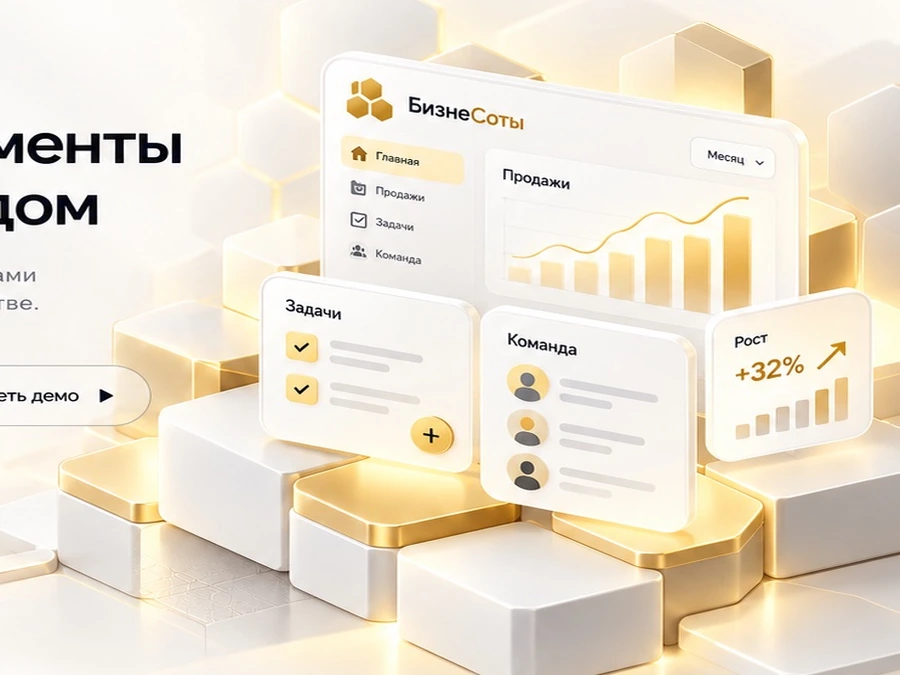
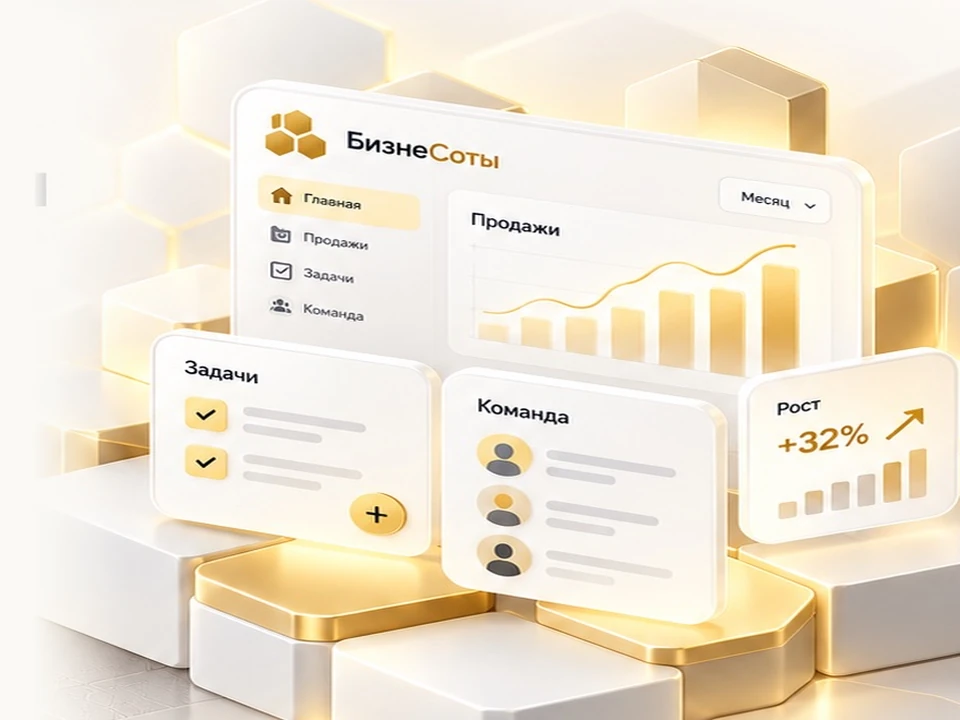
Scale landing hero and platform to match approved 1122×1402 reference
Recrop hero/platform WebP from the approved artwork without left-side
text bleed, enlarge desktop visual dominance, and lift the benefits strip
so section geometry aligns with the reference viewport.

diff --git a/src/components/landing/landing.css b/src/components/landing/landing.css
@@ -891,25 +891,25 @@
   }
 
   .landing-hero {
-    grid-template-columns: minmax(0, 0.38fr) minmax(0, 0.62fr);
+    grid-template-columns: minmax(0, 0.36fr) minmax(0, 0.64fr);
     gap: 0;
-    min-height: 820px;
-    padding-top: 64px;
+    min-height: 780px;
+    padding-top: 36px;
     padding-bottom: 0;
     align-items: start;
     overflow: visible;
   }
 
   .landing-hero__copy {
-    padding-top: 64px;
-    max-width: 27.5rem;
+    padding-top: 56px;
+    max-width: 27rem;
     z-index: 3;
   }
 
   .landing-hero__title {
-    font-size: 3.5rem;
-    max-width: 460px;
-    line-height: 1.04;
+    font-size: 3.4rem;
+    max-width: 430px;
+    line-height: 1.02;
   }
 
   .landing-hero__title-line {
@@ -917,20 +917,20 @@
   }
 
   .landing-hero__subtitle {
-    margin-top: 34px;
-    font-size: 1.175rem;
-    max-width: 27rem;
+    margin-top: 28px;
+    font-size: 1.12rem;
+    max-width: 26rem;
   }
 
   .landing-hero__cta {
-    margin-top: 46px;
+    margin-top: 40px;
   }
 
   .landing-hero__visual {
-    margin-top: -48px;
-    margin-right: -64px;
-    margin-bottom: -120px;
-    width: calc(100% + 72px);
+    margin-top: -40px;
+    margin-right: -96px;
+    margin-bottom: -200px;
+    width: calc(100% + 120px);
     max-width: none;
     z-index: 1;
   }
@@ -939,7 +939,7 @@
     display: block;
     width: 100%;
     height: auto;
-    min-height: 640px;
+    min-height: 700px;
     object-fit: contain;
     object-position: right top;
   }
@@ -951,9 +951,9 @@
   .landing-benefits {
     position: relative;
     z-index: 2;
-    margin-top: 48px;
-    padding: 20px 0 8px;
-    background: linear-gradient(180deg, transparent 0%, var(--landing-bg) 28%);
+    margin-top: 8px;
+    padding: 8px 0 4px;
+    background: linear-gradient(180deg, transparent 0%, var(--landing-bg) 42%);
   }
 
   .landing-features__grid {
@@ -961,9 +961,22 @@
   }
 
   .landing-platform {
-    margin-top: 56px;
-    min-height: 300px;
+    margin-top: 28px;
+    min-height: 320px;
     align-items: center;
+    grid-template-columns: minmax(0, 0.42fr) minmax(0, 0.58fr);
+  }
+
+  .landing-platform__visual {
+    margin-right: -80px;
+    margin-top: -12px;
+    width: calc(100% + 96px);
+  }
+
+  .landing-platform__img {
+    min-height: 300px;
+    object-fit: cover;
+    object-position: left center;
   }
 
   .landing-footer__inner {
@@ -974,7 +987,16 @@
 }
 
 @media (min-width: 1280px) {
+  .landing {
+    --landing-container: min(calc(100% - 140px), 1080px);
+  }
+
   .landing-hero__visual {
-    margin-right: -48px;
+    margin-right: -64px;
+    width: calc(100% + 96px);
+  }
+
+  .landing-platform__visual {
+    margin-right: -56px;
   }
 }

diff --git a/src/components/landing/HeroSection.tsx b/src/components/landing/HeroSection.tsx
@@ -35,17 +35,17 @@ export function HeroSection() {
         <Image
           src={LANDING_ASSETS.heroDesktop}
           alt=""
-          width={722}
-          height={790}
+          width={820}
+          height={1063}
           className="landing-hero__img landing-hero__img--desktop"
           priority
-          sizes="(max-width: 768px) 0px, min(62vw, 760px)"
+          sizes="(max-width: 768px) 0px, min(70vw, 860px)"
         />
         <Image
           src={LANDING_ASSETS.heroMobile}
           alt=""
-          width={900}
-          height={675}
+          width={960}
+          height={720}
           className="landing-hero__img landing-hero__img--mobile"
           priority
           sizes="(min-width: 769px) 0px, 100vw"

diff --git a/src/components/landing/PlatformSection.tsx b/src/components/landing/PlatformSection.tsx
@@ -17,10 +17,10 @@ export function PlatformSection() {
         <Image
           src={LANDING_ASSETS.platform}
           alt=""
-          width={672}
-          height={382}
+          width={920}
+          height={558}
           className="landing-platform__img"
-          sizes="(max-width: 768px) 100vw, 55vw"
+          sizes="(max-width: 768px) 100vw, min(58vw, 920px)"
         />      </div>
     </section>
   );
